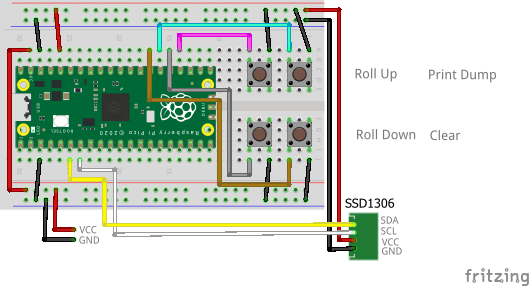
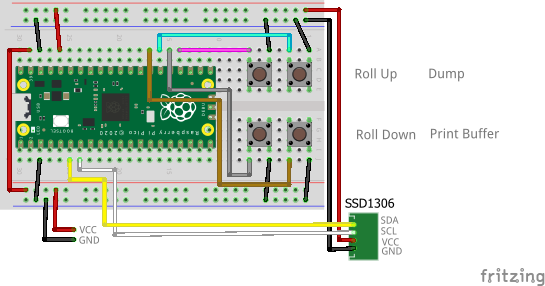
added termtest

Changed region(s): [[0.0, 0.0, 0.9376, 0.9231], [0.8771, 0.9231, 1.0, 1.0], [0.7864, 0.2238, 0.9376, 0.2797]]

diff --git a/termtest/termtest.cpp b/termtest/termtest.cpp
@@ -1,0 +1,39 @@
+#include <stdio.h>
+#include "pico/stdlib.h"
+#include "jxglib/Terminal.h"
+#include "jxglib/ST7789.h"
+#include "jxglib/Font/shinonome16-japanese-level2.h"
+#include "jxglib/sample/Text_Botchan.h"
+
+using namespace jxglib;
+
+int main()
+{
+	::stdio_init_all();
+	::spi_init(spi1, 125 * 1000 * 1000);
+	GPIO14.set_function_SPI1_SCK();
+	GPIO15.set_function_SPI1_TX();
+	GPIO18.init().pull_up();
+	GPIO19.init().pull_up();
+	GPIO20.init().pull_up();
+	GPIO21.init().pull_up();
+	ST7789 display(spi1, 240, 320, {RST: GPIO10, DC: GPIO11, CS: GPIO12, BL: GPIO13});
+	display.Initialize(Display::Dir::Rotate90);
+	Terminal terminal;
+	terminal.Initialize();
+	terminal.AttachOutput(display).SetFont(Font::shinonome16).SetSpacingRatio(1., 1.2).ClearScreen();
+	terminal.Suppress();
+	terminal.Print(Text_Botchan);
+	terminal.Suppress(false);
+	for (int i = 1; i < 7; i++) {
+		for (int j = 1; j < 13; j++) terminal.Printf("%3d", i * j);
+		terminal.Println();
+	}
+	for (;;) {
+		if (!GPIO18.get()) terminal.RollUp();
+		if (!GPIO19.get()) terminal.RollDown();
+		if (!GPIO20.get()) terminal.Dump.Cols(8).Ascii()(reinterpret_cast<const void*>(0x10000000), 64);
+		if (!GPIO21.get()) terminal.CreateReader().WriteTo(stdout);
+		::sleep_ms(100);
+	}
+}
